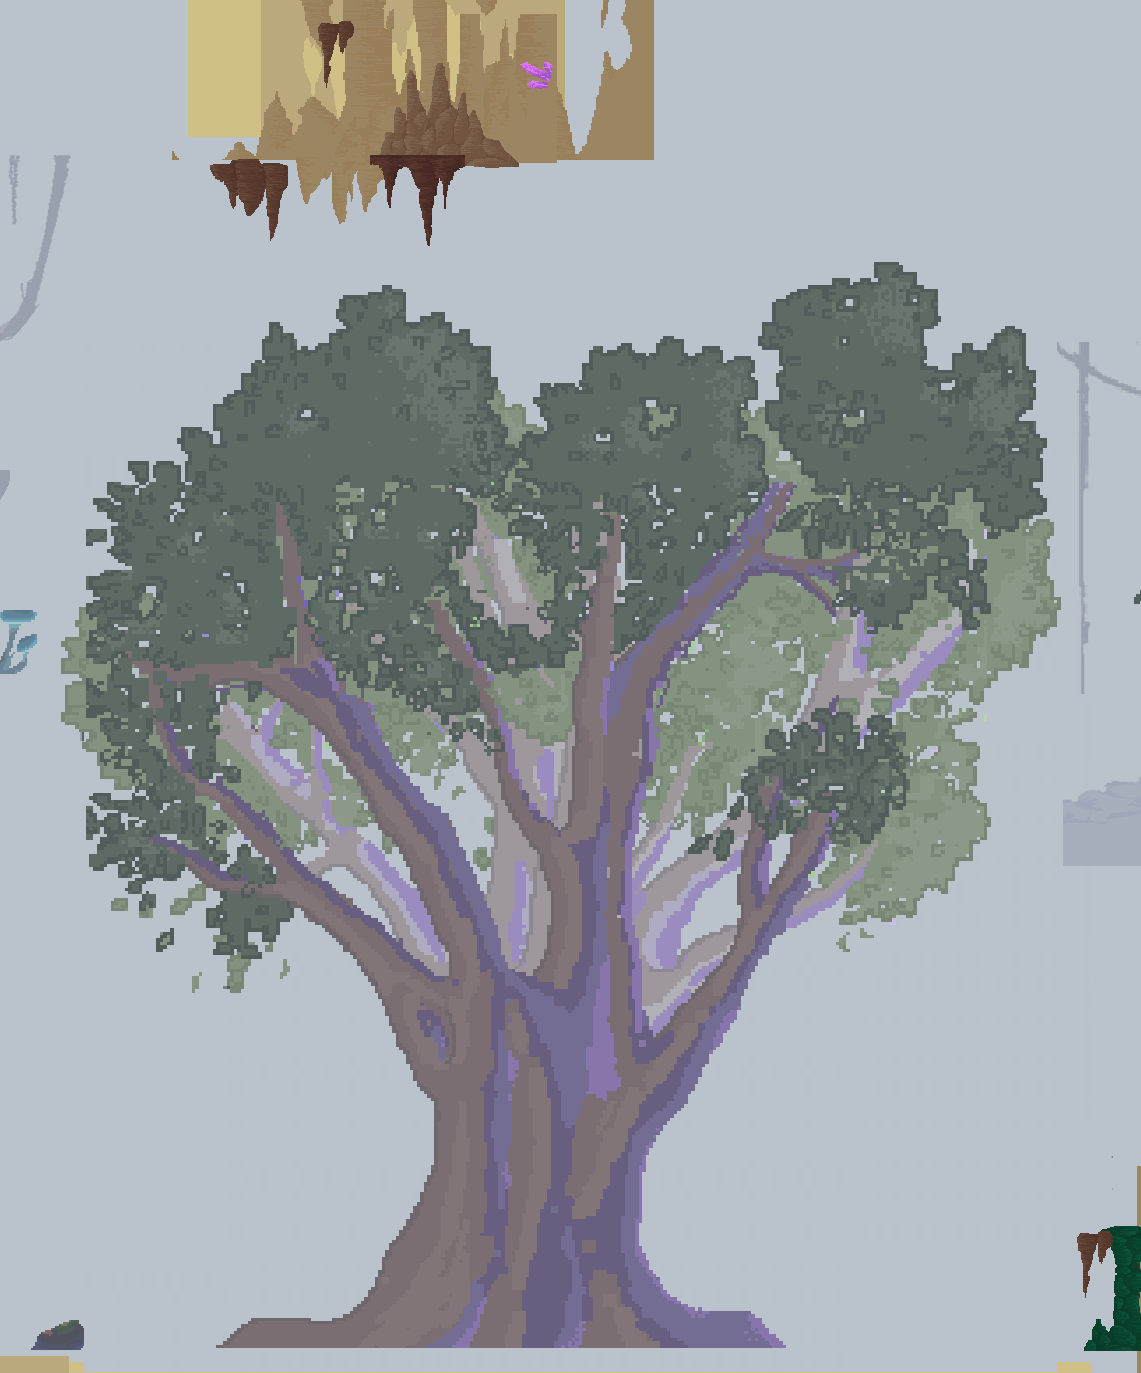
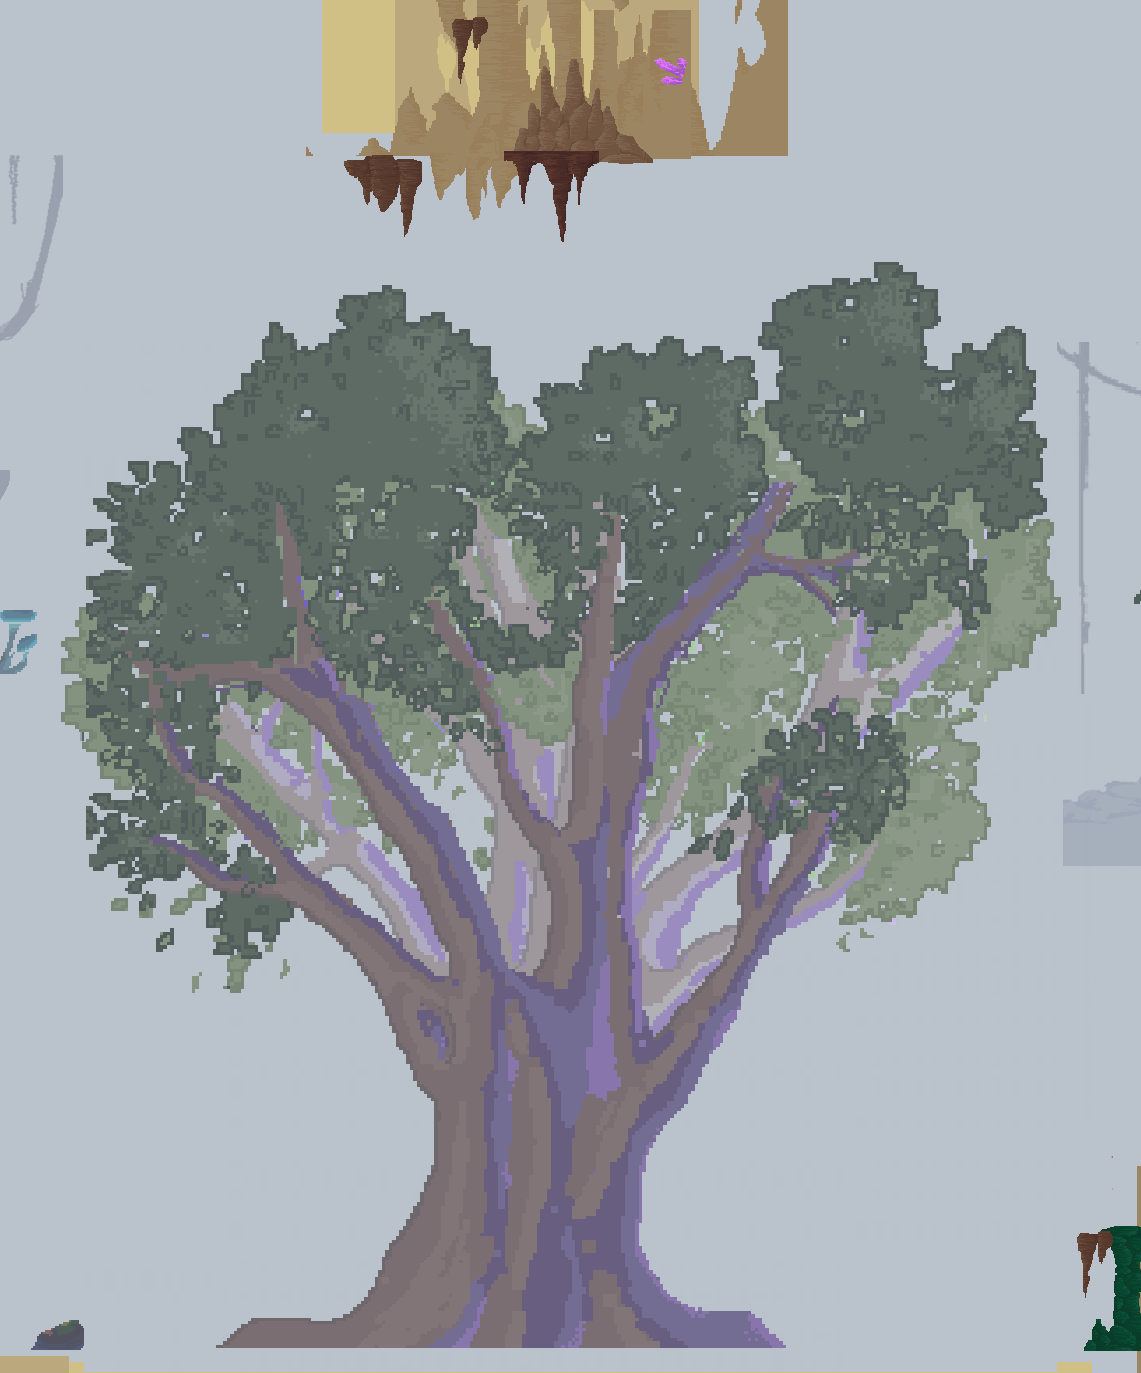
QA: bug de hundimiento en el suelo y recolocacion de cartel y de sala secreta

Changed region(s): [[0.1534, 0.0, 0.7055, 0.1835]]

diff --git a/PR2/Ott - An Elemental Journey/src/components/MapComponent.cpp b/PR2/Ott - An Elemental Journey/src/components/MapComponent.cpp
@@ -23,7 +23,7 @@ MapComponent::MapComponent(Entity* fadeOut, PlayState* game, int currentMap) : f
     for (int i = 0; i < ecs::LAST_MAP_ID; ++i) {
         mapKeys.push_back({});
     }
-    currentMapKey = "waterMap";
+    currentMapKey = "earthMap";
     tilemap = &sdlutils().images().at(sdlutils().levels().at(currentMapKey).tileset);
 }
 

diff --git a/PR2/Ott - An Elemental Journey/src/components/PhysicsComponent.cpp b/PR2/Ott - An Elemental Journey/src/components/PhysicsComponent.cpp
@@ -33,7 +33,7 @@ void PhysicsComponent::saveLastPos(const SDL_Rect& col)
 void PhysicsComponent::setLastPos()
 {
 	auto tr = ent_->getComponent<Transform>();
-	tr->setPosition(lastPos);
+	tr->setPosition(Vector2D(lastPos.getX(), lastPos.getY() - 10));
 }
 void PhysicsComponent::createCollider() {
 	auto tr = ent_->getComponent<Transform>();
